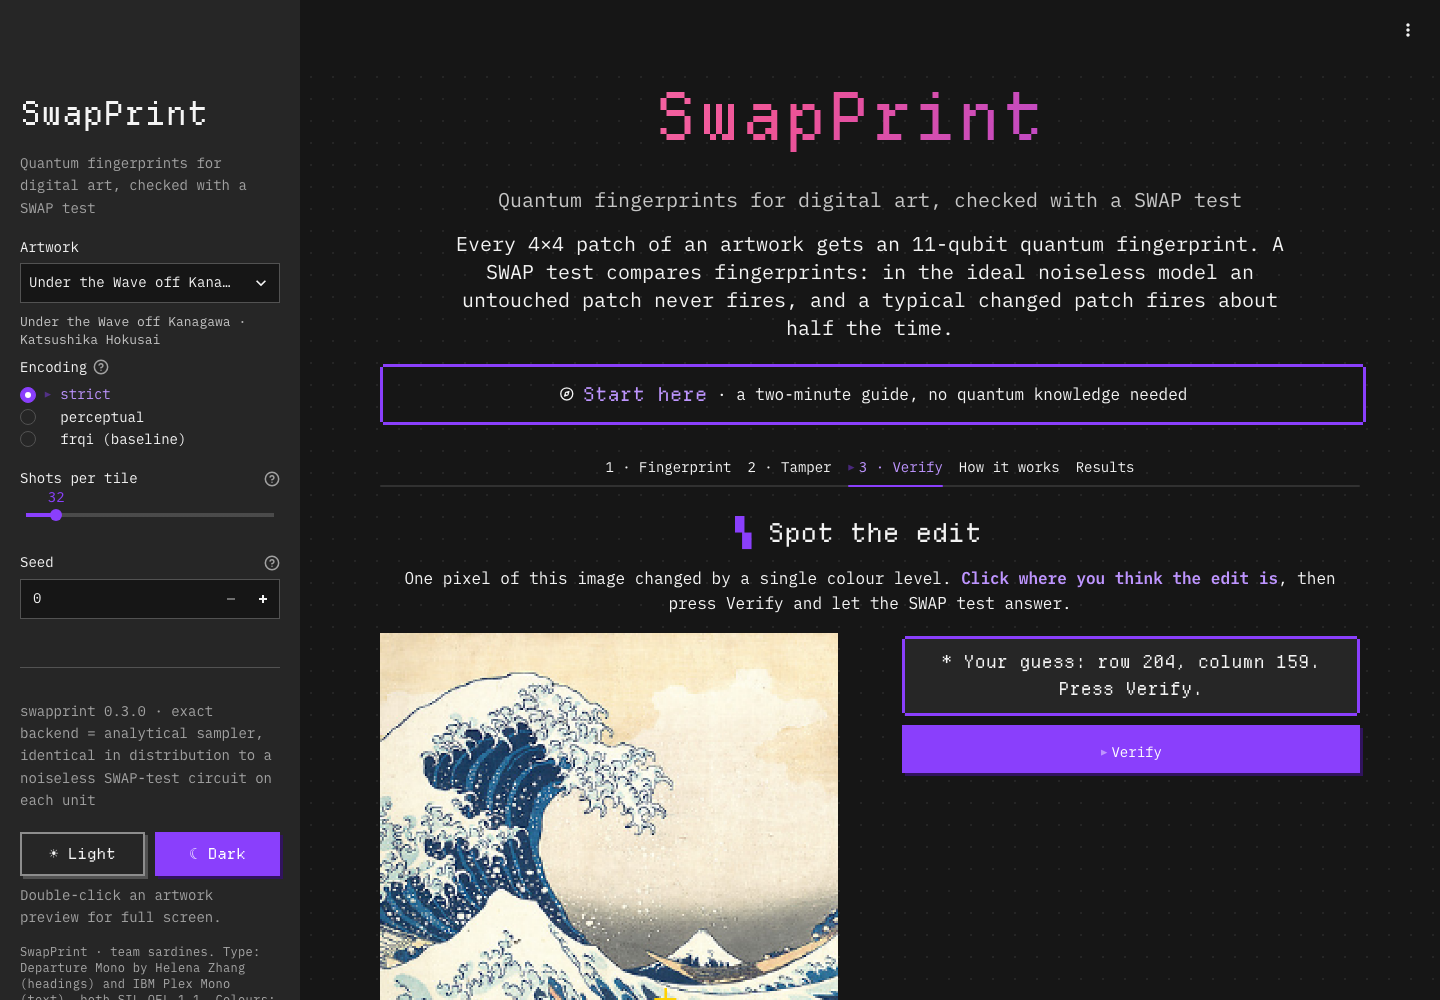
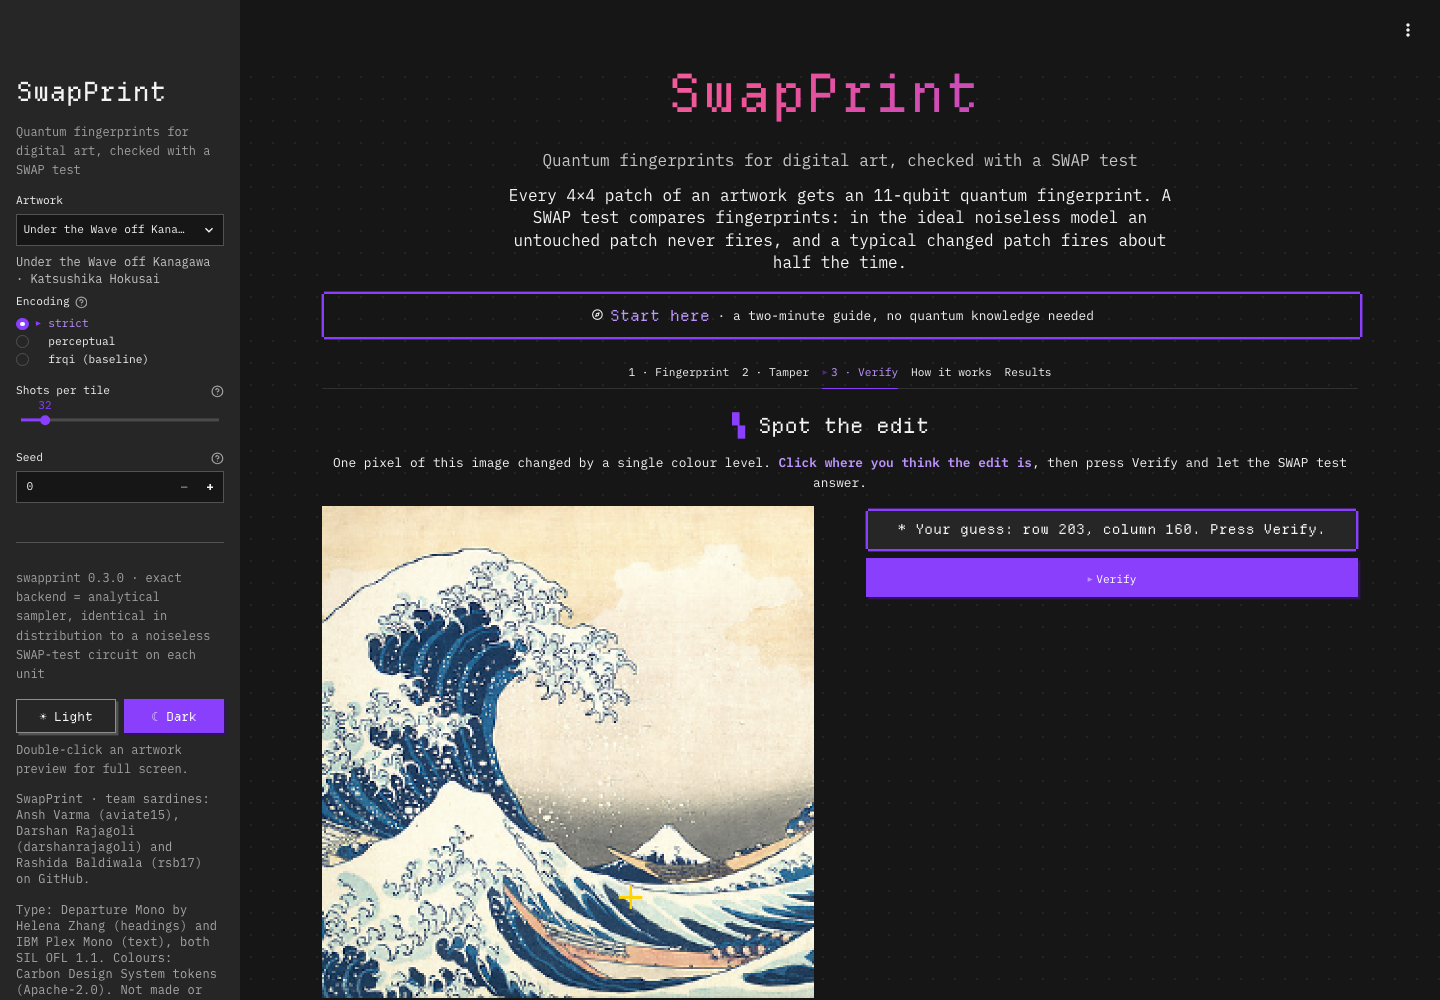
app: 80% desktop scale in a centred ~1100 px column; team names and GitHub IDs in the sidebar (Ansh's requests)
- Laptop/desktop (>= 900 px): main column and sidebar at zoom 0.8; sidebar 240 px; content in a centred
  ~1100 px column with equal space either side (MLU-Explain style). Phones unchanged.
- After the zoom, supporting text (captions, credits, artwork/tool names) shows at ~12 px, and pictures fill
  their column (Streamlit sized them from the on-screen width, which the zoom shrank twice). Clicks on the
  pictures were re-tested at 80%: they land on the right pixel.
- Sidebar credit: Ansh Varma (aviate15), Darshan Rajagoli (darshanrajagoli), Rashida Baldiwala (rsb17).
- Codex before/after check: 80% is better overall; its readable-text and picture-centring notes are applied.
- Screenshots retaken; full demo storyboard re-run (all steps pass).

diff --git a/app/pixel.css b/app/pixel.css
@@ -279,3 +279,26 @@ iframe[title="streamlit_image_coordinates.streamlit_image_coordinates"] { aspect
 [data-testid="stMain"] .stButton [data-testid="stTooltipIcon"],
 [data-testid="stMain"] .stButton [data-testid="stTooltipHoverTarget"],
 [data-testid="stMain"] .stButton [data-testid="stTooltipHoverTarget"] > button { width: 100%; }
+
+/* Laptop/desktop only (Ansh): everything at 80% and a centred ~1100 px column with equal space either side, so more of
+   each tab fits on one screen. Phones keep today's sizes. zoom scales text, pictures, buttons and spacing together;
+   the column's max-width is in zoomed units (1375 px x 0.8 = 1100 px on screen). */
+@media (min-width: 900px) {
+  [data-testid="stMainBlockContainer"] { zoom: 0.8; max-width: 1375px !important; margin-left: auto !important;
+    margin-right: auto !important; padding-left: 40px !important; padding-right: 40px !important; }
+  [data-testid="stSidebar"][data-collapsed="false"] { min-width: 240px !important; max-width: 240px !important; width: 240px !important; }
+  [data-testid="stSidebarContent"] { zoom: 0.8; }
+  /* keep supporting text readable after the zoom: 15 px here shows as 12 px on screen */
+  [data-testid="stCaptionContainer"], [data-testid="stCaptionContainer"] p, .sp-credit, .sp-artwork-full, .fine,
+  [data-testid="stSidebar"] [data-testid="stCaptionContainer"] p { font-size: 15px !important; }
+  /* pictures narrower than their column sit in its centre, under their centred headings */
+  [data-testid="stMain"] [data-testid="stImage"] { margin-left: auto; margin-right: auto; }
+  [data-testid="stMain"] [data-testid="stImage"] img { display: block; margin-left: auto; margin-right: auto; }
+  /* Streamlit sizes pictures from the column's on-screen width, which the zoom then shrinks a second time (to 80% of
+     the column, off-centre); pictures and the clickable pictures fill their column instead */
+  [data-testid="stMain"] [data-testid="stFullScreenFrame"] > div:has([data-testid="stImage"]),
+  [data-testid="stMain"] [data-testid="stImage"], [data-testid="stMain"] [data-testid="stImageContainer"],
+  [data-testid="stMain"] [data-testid="stImage"] img,
+  [data-testid="stMain"] iframe[title="streamlit_image_coordinates.streamlit_image_coordinates"] { width: 100% !important; }
+  [data-testid="stMain"] iframe[title="streamlit_image_coordinates.streamlit_image_coordinates"] { display: block; margin-left: auto; margin-right: auto; }
+}

diff --git a/app/streamlit_app.py b/app/streamlit_app.py
@@ -335,7 +335,9 @@ with st.sidebar:
     st.markdown('<div class="sp-modes"><a class="sp-mode light" href="#theme-light">☀ Light</a>'
                 '<a class="sp-mode dark" href="#theme-dark">☾ Dark</a></div>', unsafe_allow_html=True)
     st.caption("Double-click an artwork preview for full screen.")
-    st.markdown('<div class="sp-credit">SwapPrint · team sardines. Type: Departure Mono by Helena Zhang (headings) and '
+    st.markdown('<div class="sp-credit">SwapPrint · team sardines: Ansh Varma (aviate15), Darshan Rajagoli '
+                '(darshanrajagoli) and Rashida Baldiwala (rsb17) on GitHub.<br><br>'
+                'Type: Departure Mono by Helena Zhang (headings) and '
                 'IBM Plex Mono (text), both SIL OFL 1.1. '
                 'Colours: Carbon Design System tokens (Apache-2.0). Not made or endorsed by IBM.</div>',
                 unsafe_allow_html=True)
